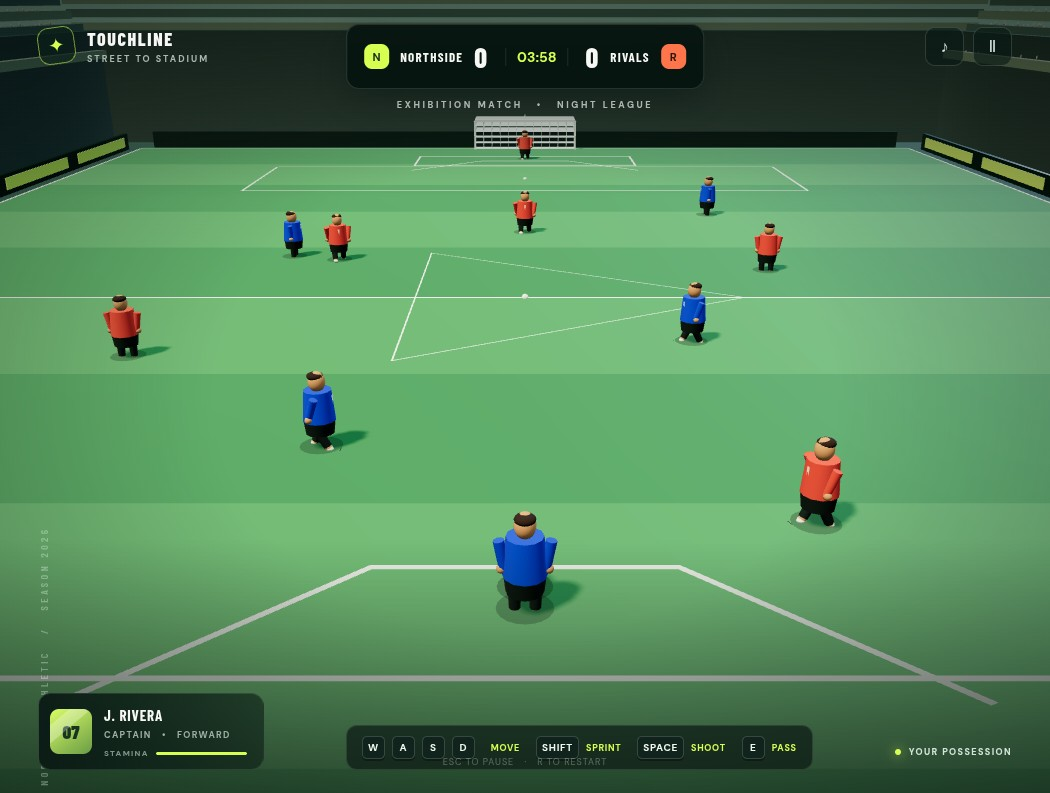
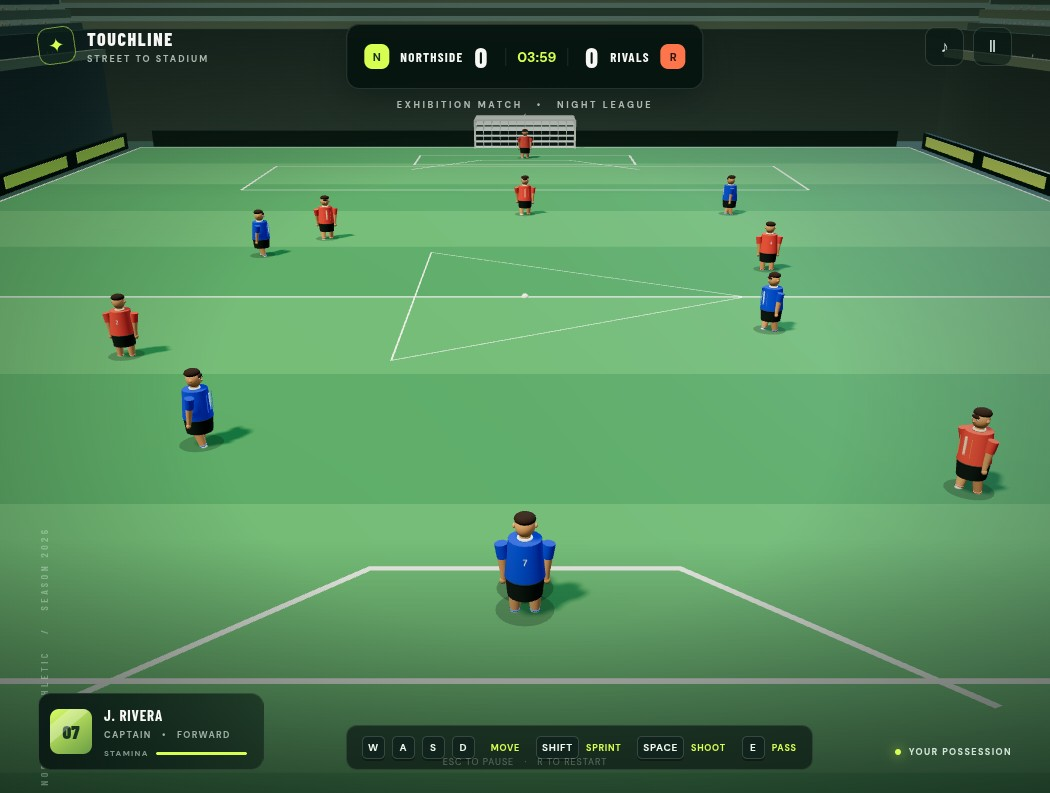
Publish static build for issue #1
Run: 43093600023
Attempt: 1
Generation: 5
Source: 309ecd2584857397aa652db6026cdd8ffc02d184

diff --git a/game.js b/game.js
@@ -21,7 +21,48 @@ const concrete=mat(0x34433e),upper=mat(0x20312c),seat1=mat(0x53675d),seat2=mat(0
 for(const side of [-1,1]){box(scene,side*40,5,0,2,10,110,concrete,false,true);for(let row=0;row<8;row++){const y=8+row*1.12,x=side*(39+row*.88);box(scene,x,y,0,1.6,.7,106,row%3===0?seat2:seat1);const colors=[0xe4c89e,0x3978a8,0xc85542,0xd5d4bd,0x5d9c67],geo=new THREE.SphereGeometry(.12,6,5);for(let c=0;c<5;c++){const crowd=new THREE.InstancedMesh(geo,mat(colors[c]),24),dummy=new THREE.Object3D();for(let n=0;n<24;n++){dummy.position.set(x+side*Math.random()*.55,y+.38+(Math.random()-.5)*.24,-50+(c*24+n)*.88);dummy.scale.set(.72,1.35,.72);dummy.updateMatrix();crowd.setMatrixAt(n,dummy.matrix);}crowd.instanceMatrix.needsUpdate=true;scene.add(crowd);}}box(scene,side*48,17,0,1.2,.35,112,upper);for(let z=-49;z<=49;z+=16){box(scene,side*48,19,z,1.5,4,.65,mat(0x374a42));box(scene,side*47.2,21,z,2.6,.22,5,mat(0xf4f3df,.25));}}
 for(const end of [-1,1]){box(scene,0,5,end*55,84,10,2,concrete,false,true);for(let row=0;row<7;row++)box(scene,0,8+row*1.15,end*(55+row*.75),82+row*1.2,.7,1.4,row%2?seat1:seat2);box(scene,0,17,end*61,90,.5,1.5,upper);}
 const boardMat=mat(0x102720,.35);for(const side of [-1,1]){box(scene,side*36,.7,0,.35,1.4,98,boardMat);for(let z=-43;z<47;z+=12)box(scene,side*35.78,.74,z,.08,.82,10,mat(z%24?0xbee847:0x66cbd0,.45));}for(const z of [-50.5,50.5])box(scene,0,.7,z,68,1.4,.35,boardMat);
-function makePlayer(team,x,z,number,keeper=false){const g=new THREE.Group();g.position.set(x,0,z);scene.add(g);const shirt=team==='home'?blue:red,body=new THREE.Group();g.add(body);const torso=new THREE.Mesh(new THREE.CylinderGeometry(.42,.5,.95,12),shirt);torso.position.y=1.35;torso.castShadow=true;body.add(torso);const bib=new THREE.Mesh(new THREE.BoxGeometry(.08,.58,.035),mat(team==='home'?0xbcd8ff:0xffd0ac));bib.position.set(0,1.38,-.426);body.add(bib);const shorts=new THREE.Mesh(new THREE.CylinderGeometry(.48,.43,.42,12),dark);shorts.position.y=.67;shorts.castShadow=true;g.add(shorts);sphere(body,0,2.08,0,.29,skin,[.85,1.08,.9]);sphere(body,0,2.25,.04,.27,mat(0x33231b),[.9,.45,.92]);const cv=document.createElement('canvas');cv.width=128;cv.height=128;const ctx=cv.getContext('2d');ctx.fillStyle='#fff';ctx.font='bold 76px Arial';ctx.textAlign='center';ctx.textBaseline='middle';ctx.fillText(String(number),64,66);const numberMesh=new THREE.Mesh(new THREE.PlaneGeometry(.35,.38),new THREE.MeshBasicMaterial({map:new THREE.CanvasTexture(cv),transparent:true,side:THREE.DoubleSide}));numberMesh.position.set(0,1.45,.43);body.add(numberMesh);const limbs=[];for(const side of [-1,1]){const arm=new THREE.Group();arm.position.set(side*.52,1.68,0);body.add(arm);const armMesh=new THREE.Mesh(new THREE.CylinderGeometry(.13,.105,.68,9),shirt);armMesh.position.y=-.3;armMesh.rotation.z=side*-.15;arm.add(armMesh);sphere(arm,0,-.66,0,.11,skin);const leg=new THREE.Group();leg.position.set(side*.23,.53,0);g.add(leg);const thigh=new THREE.Mesh(new THREE.CylinderGeometry(.15,.13,.5,9),dark);thigh.position.y=-.25;leg.add(thigh);const shin=new THREE.Mesh(new THREE.CylinderGeometry(.105,.12,.43,9),skin);shin.position.set(0,-.66,0);leg.add(shin);const sock=new THREE.Mesh(new THREE.CylinderGeometry(.12,.115,.23,9),white);sock.position.set(0,-.67,0);leg.add(sock);const boot=new THREE.Mesh(new THREE.BoxGeometry(.23,.12,.38),mat(0x182019,.3));boot.position.set(0,-.82,-.1);leg.add(boot);limbs.push({arm,leg,side});}const shadow=new THREE.Mesh(new THREE.CircleGeometry(.65,20),new THREE.MeshBasicMaterial({color:0x07130d,transparent:true,opacity:.22,depthWrite:false}));shadow.rotation.x=-Math.PI/2;shadow.position.y=.025;g.add(shadow);return{group:g,body,limbs,team,number,keeper,velocity:new THREE.Vector3(),homeX:x,homeZ:z,run:0};}
+function makePlayer(team,x,z,number,keeper=false){
+ const g=new THREE.Group();g.position.set(x,0,z);scene.add(g);
+ const shirt=team==='home'?blue:red,trim=team==='home'?blueBright:redBright,skinTone=skin,body=new THREE.Group();g.add(body);
+ const torso=new THREE.Mesh(new THREE.CylinderGeometry(.37,.45,.88,18,1),shirt);torso.position.y=1.36;torso.castShadow=true;torso.receiveShadow=true;body.add(torso);
+ sphere(body,0,1.49,0,.39,shirt,[1,.82,.72]);
+ const collar=new THREE.Mesh(new THREE.TorusGeometry(.145,.035,7,18),mat(team==='home'?0xbcd8ff:0xffd0ac));collar.rotation.x=Math.PI/2;collar.position.set(0,1.82,0);body.add(collar);
+ const bib=new THREE.Mesh(new THREE.BoxGeometry(.075,.53,.025),mat(team==='home'?0xbcd8ff:0xffd0ac));bib.position.set(0,1.4,-.413);body.add(bib);
+ for(const side of [-1,1]){const seam=box(body,side*.205,1.38,-.405,.018,.53,.014,trim);seam.material=trim;}
+ const shorts=new THREE.Mesh(new THREE.CylinderGeometry(.43,.39,.45,16,1),dark);shorts.position.y=.68;shorts.castShadow=true;g.add(shorts);
+ const waistband=new THREE.Mesh(new THREE.TorusGeometry(.405,.035,6,18),mat(0x263b32));waistband.rotation.x=Math.PI/2;waistband.position.y=.895;g.add(waistband);
+ const neck=new THREE.Mesh(new THREE.CylinderGeometry(.105,.13,.19,12),skinTone);neck.position.y=1.88;neck.castShadow=true;body.add(neck);
+ sphere(body,0,2.12,0,.255,skinTone,[.88,1.08,.9]);
+ const hair=mat(0x33231b),hairCap=sphere(body,0,2.28,.015,.238,hair,[1,.52,1]);hairCap.position.set(0,2.29,.025);
+ sphere(body,0,2.205,-.207,.13,hair,[1,.43,.38]);
+ for(const side of [-1,1]){
+  sphere(body,side*.235,2.11,0,.055,skinTone,[.65,1,1]);
+  sphere(body,side*.087,2.14,-.222,.027,mat(0xf4e8d9),[1,.9,.45]);
+  sphere(body,side*.087,2.14,-.239,.013,mat(0x211c19),[1,1,.6]);
+ }
+ sphere(body,0,2.075,-.25,.035,skinTone,[.72,.8,1]);
+ const mouth=box(body,0,2.018,-.226,.075,.012,.014,mat(0x70483c));
+ const cv=document.createElement('canvas');cv.width=128;cv.height=128;const ctx=cv.getContext('2d');ctx.fillStyle='#fff';ctx.font='bold 76px Arial';ctx.textAlign='center';ctx.textBaseline='middle';ctx.fillText(String(number),64,66);
+ const numberMesh=new THREE.Mesh(new THREE.PlaneGeometry(.35,.38),new THREE.MeshBasicMaterial({map:new THREE.CanvasTexture(cv),transparent:true,side:THREE.DoubleSide}));numberMesh.position.set(0,1.43,.414);body.add(numberMesh);
+ const limbs=[];
+ for(const side of [-1,1]){
+  const arm=new THREE.Group();arm.position.set(side*.48,1.63,0);body.add(arm);
+  const sleeve=new THREE.Mesh(new THREE.CylinderGeometry(.145,.13,.34,12),shirt);sleeve.position.set(side*.015,-.12,0);sleeve.rotation.z=side*-.12;sleeve.castShadow=true;arm.add(sleeve);
+  const upperArm=new THREE.Mesh(new THREE.CylinderGeometry(.105,.085,.31,12),skinTone);upperArm.position.y=-.43;upperArm.rotation.z=side*-.08;upperArm.castShadow=true;arm.add(upperArm);
+  const forearm=new THREE.Mesh(new THREE.CylinderGeometry(.085,.065,.28,12),skinTone);forearm.position.set(side*-.015,-.7,0);forearm.castShadow=true;arm.add(forearm);
+  sphere(arm,0,-.86,0,.085,skinTone,[.9,1,.85]);
+  const leg=new THREE.Group();leg.position.set(side*.22,.54,0);g.add(leg);
+  const thigh=new THREE.Mesh(new THREE.CylinderGeometry(.145,.12,.42,12),skinTone);thigh.position.y=-.22;thigh.castShadow=true;leg.add(thigh);
+  const shin=new THREE.Mesh(new THREE.CylinderGeometry(.105,.085,.38,12),skinTone);shin.position.y=-.59;shin.castShadow=true;leg.add(shin);
+  const sock=new THREE.Mesh(new THREE.CylinderGeometry(.108,.105,.29,12),white);sock.position.set(0,-.63,0);sock.castShadow=true;leg.add(sock);
+  const sockBand=new THREE.Mesh(new THREE.TorusGeometry(.105,.018,5,14),trim);sockBand.rotation.x=Math.PI/2;sockBand.position.set(0,-.49,0);leg.add(sockBand);
+  const boot=new THREE.Mesh(new THREE.SphereGeometry(.17,14,10),mat(0x182019,.35));boot.scale.set(.8,.48,1.3);boot.position.set(0,-.82,-.08);boot.castShadow=true;leg.add(boot);
+  const sole=box(leg,0,-.88,-.08,.22,.035,.37,mat(0x090f0c,.5));
+  limbs.push({arm,leg,side});
+ }
+ const shadow=new THREE.Mesh(new THREE.CircleGeometry(.65,24),new THREE.MeshBasicMaterial({color:0x07130d,transparent:true,opacity:.22,depthWrite:false}));shadow.rotation.x=-Math.PI/2;shadow.position.y=.025;g.add(shadow);
+ return{group:g,body,limbs,team,number,keeper,velocity:new THREE.Vector3(),homeX:x,homeZ:z,run:0};
+}
 const homePlayers=[makePlayer('home',0,25,7),makePlayer('home',-12,16,11),makePlayer('home',12,4,8),makePlayer('home',-16,-8,3),makePlayer('home',15,-19,10),makePlayer('home',0,44,1,true)];
 const awayPlayers=[makePlayer('away',0,-22,9),makePlayer('away',-12,-15,6),makePlayer('away',12,-5,4),makePlayer('away',-15,8,2),makePlayer('away',15,18,5),makePlayer('away',0,-44,1,true)];
 const captain=homePlayers[0],allPlayers=[...homePlayers,...awayPlayers];
